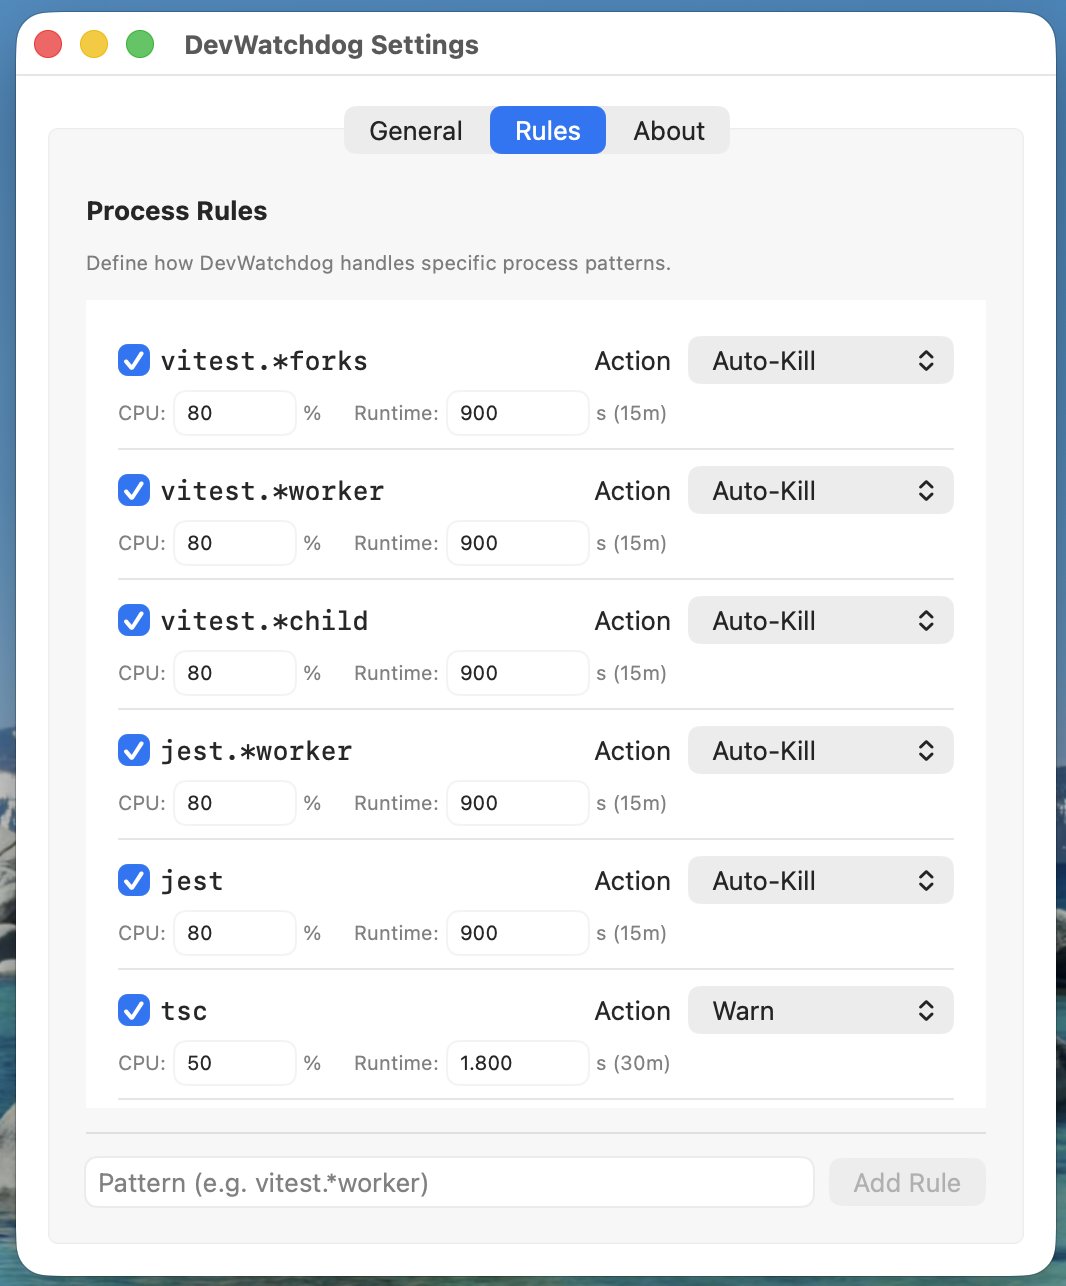
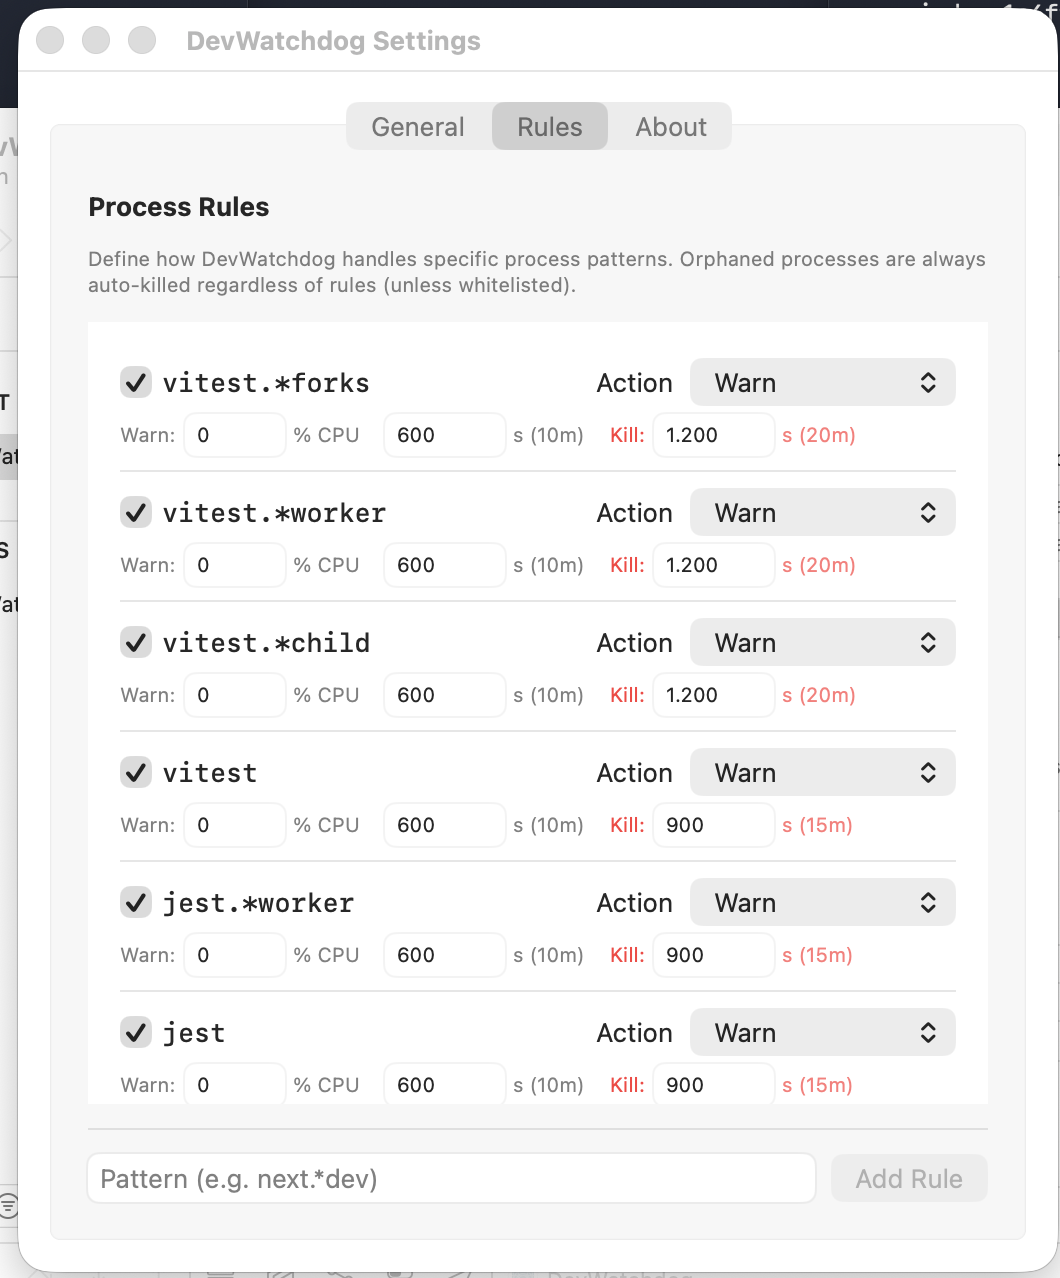
chore: Version bump to 2.0.0, update screenshots and docs
- Bump MARKETING_VERSION 1.0.0 → 2.0.0 (major rewrite of detection engine)
- Bump CFBundleVersion and CFBundleShortVersionString in Info.plist
- Replace outdated screenshots with new ones showing:
  - Sticky action bar with ampel-colored Kill Suspects button
  - Simplified General settings (orphan timeout, grace period, catch-all)
  - Process rules with maxRuntime kill limits
- Remove stale screenshots (settings-top, settings-bottom, about)
- Add settings and rules screenshots to README

diff --git a/DevWatchdog/Views/SettingsView.swift b/DevWatchdog/Views/SettingsView.swift
@@ -234,7 +234,7 @@ struct SettingsView: View {
                 .font(.title)
                 .fontWeight(.bold)
 
-            Text("v1.0.0")
+            Text("v2.0.0")
                 .foregroundStyle(.secondary)
 
             Text("Automatic cleanup of zombie Node.js processes on macOS.")

diff --git a/README.md b/README.md
@@ -109,6 +109,13 @@ Instead of 73 individual alerts:
 - **Orange eye + count**: Suspect processes being watched
 - **Red warning + count**: Zombies detected, auto-kill pending
 
+### Fully Configurable
+
+<p align="center">
+  <img src="docs/screenshot-settings.png" alt="DevWatchdog Settings" width="380" />
+  <img src="docs/screenshot-rules.png" alt="DevWatchdog Rules" width="380" />
+</p>
+
 ### Per-Process Actions
 - One-click kill for individual processes
 - Kill All Zombies / Kill All Suspects buttons
